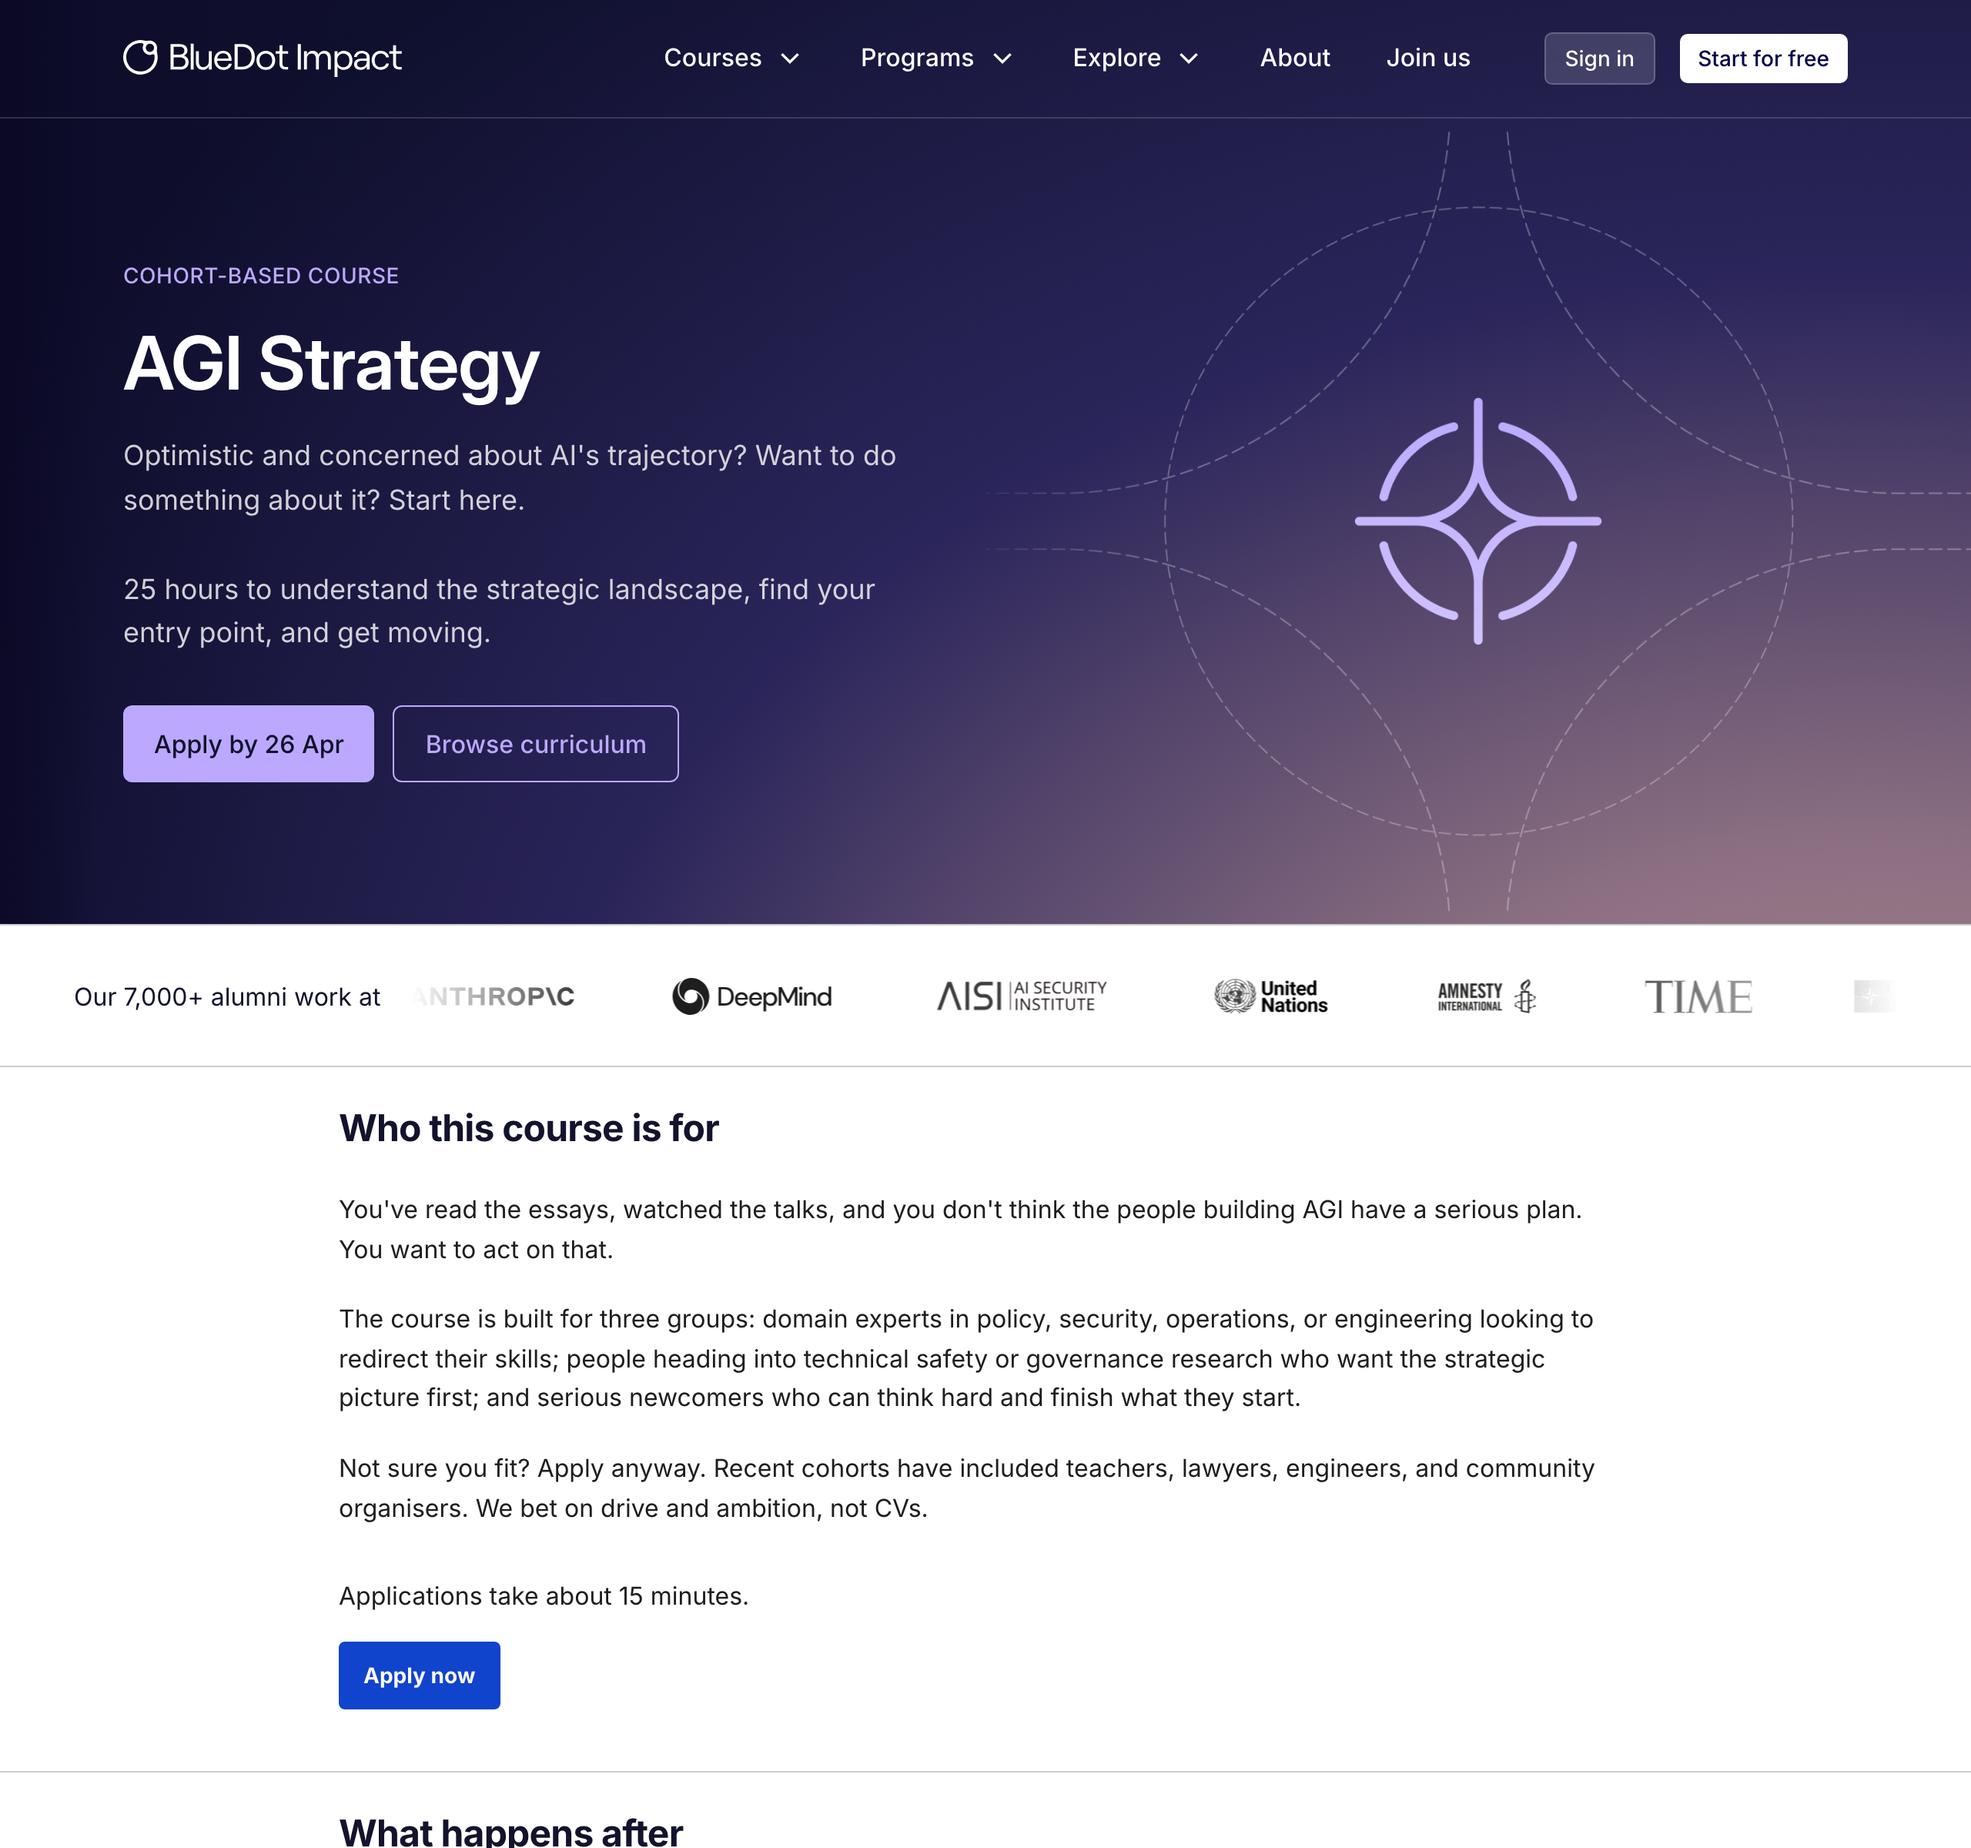
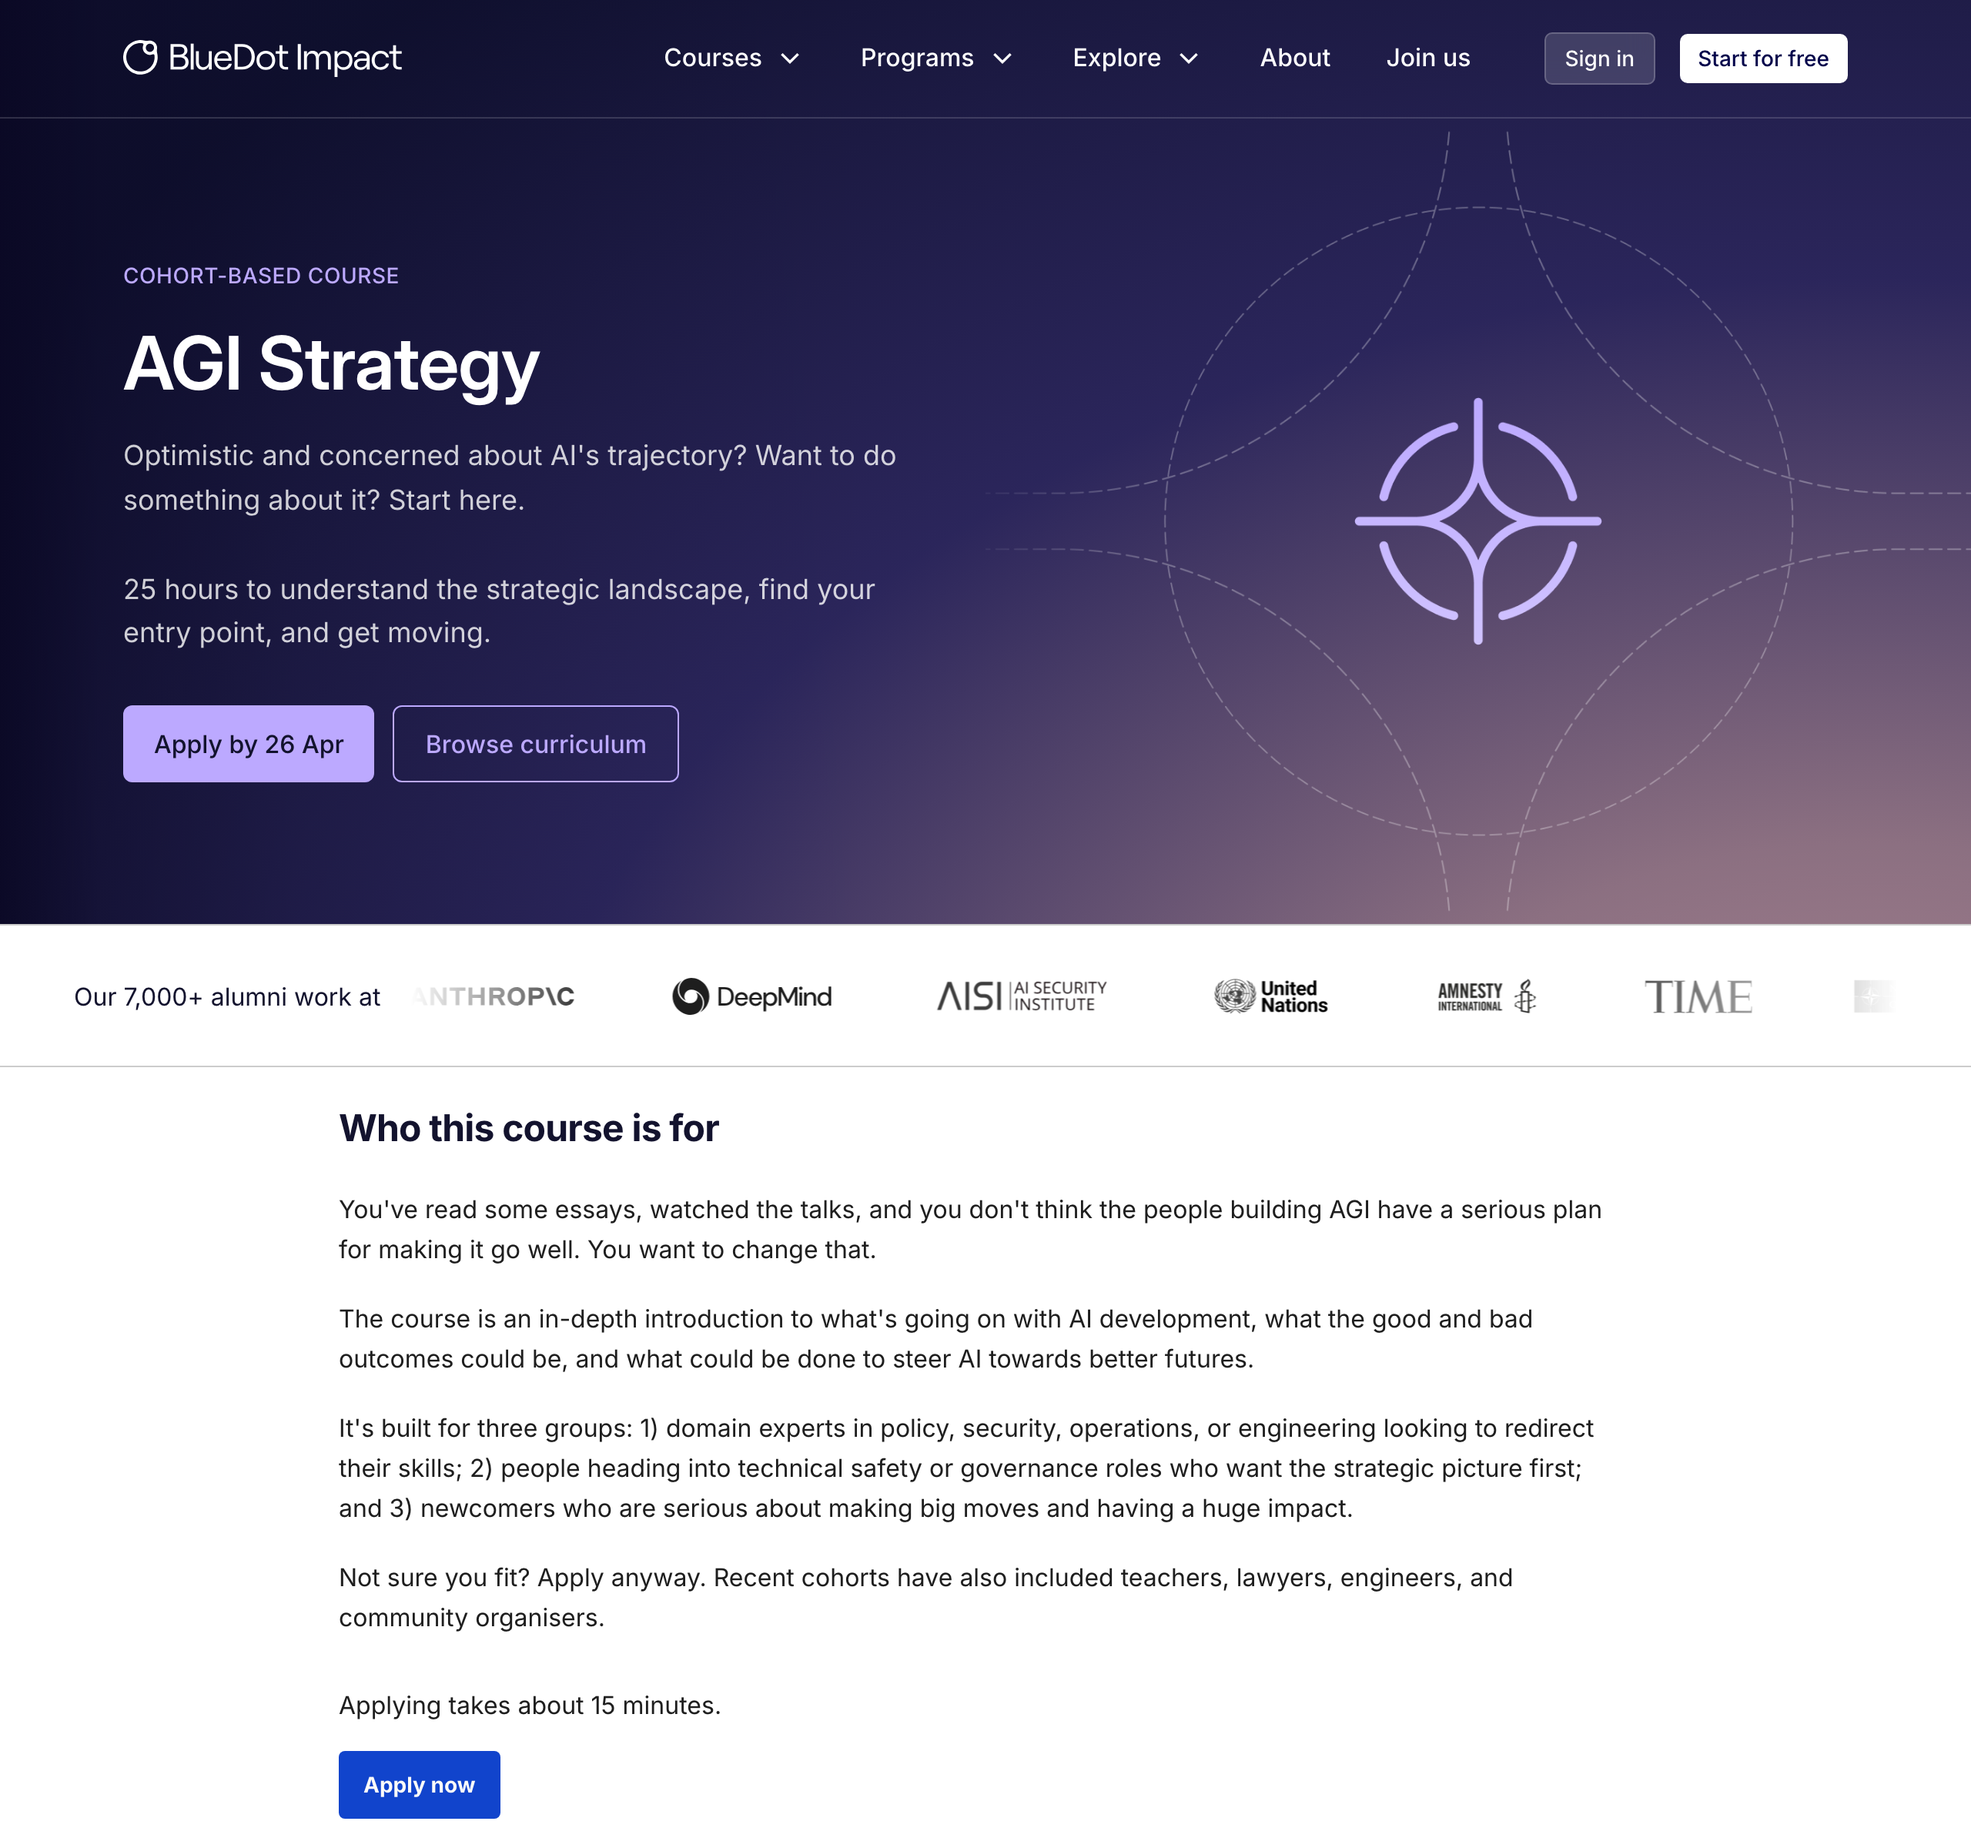
[copy] AGI Strategy: Dewi-revised copy + add Rapid/Career grants to pathways
- Who this course is for: tighter framing of the audience, three-group
  list explicitly numbered, drops "we bet on drive and ambition, not CVs"
  in favour of a simpler "apply anyway" line.
- How this course will benefit you: reframes the three benefits as
  career launchpad / clear way to think / community of builders.
- What happens after: drops "make a bigger leap", adds Rapid Grants and
  Career Transition Grants as concrete next steps, intro shortened.

Screenshots refreshed.

diff --git a/apps/website/src/components/lander/course-content/AgiStrategyContent.tsx b/apps/website/src/components/lander/course-content/AgiStrategyContent.tsx
@@ -49,12 +49,13 @@ export const createAgiStrategyContent = (
   whoIsThisForText: {
     title: 'Who this course is for',
     paragraphs: [
-      'You\'ve read the essays, watched the talks, and you don\'t think the people building AGI have a serious plan. You want to act on that.',
-      'The course is built for three groups: domain experts in policy, security, operations, or engineering looking to redirect their skills; people heading into technical safety or governance research who want the strategic picture first; and serious newcomers who can think hard and finish what they start.',
-      'Not sure you fit? Apply anyway. Recent cohorts have included teachers, lawyers, engineers, and community organisers. We bet on drive and ambition, not CVs.',
+      'You\'ve read some essays, watched the talks, and you don\'t think the people building AGI have a serious plan for making it go well. You want to change that.',
+      'The course is an in-depth introduction to what\'s going on with AI development, what the good and bad outcomes could be, and what could be done to steer AI towards better futures.',
+      'It\'s built for three groups: 1) domain experts in policy, security, operations, or engineering looking to redirect their skills; 2) people heading into technical safety or governance roles who want the strategic picture first; and 3) newcomers who are serious about making big moves and having a huge impact.',
+      'Not sure you fit? Apply anyway. Recent cohorts have also included teachers, lawyers, engineers, and community organisers.',
     ],
     bottomCta: {
-      text: 'Applications take about 15 minutes.',
+      text: 'Applying takes about 15 minutes.',
       buttonText: 'Apply now',
       buttonUrl: applicationUrlWithUtm,
     },
@@ -64,16 +65,16 @@ export const createAgiStrategyContent = (
     title: 'How this course will benefit you',
     items: [
       {
-        heading: 'A launchpad, not a lecture',
-        body: 'You won\'t "complete" this course. You\'ll leave it with a view on which problems matter, which path fits your background, and what you\'re going to do next week.',
+        heading: 'A launchpad for your AI safety career',
+        body: 'You\'ll leave this course with an opinion on which threats matter, early takes on how we could solve these problems, and concrete next steps you can take.',
       },
       {
-        heading: 'Three frameworks you\'ll actually use',
-        body: 'Incentive mapping for the race to AGI. Kill chains for analysing threats. Defense in depth for designing interventions. Enough to hold your own in any room of people working on this.',
+        heading: 'A clear way to think about the future of AI',
+        body: 'You\'ll analyse the incentives facing AI companies. You\'ll develop "kill chains" to analyse the threats. And you\'ll apply defense in depth to evaluate and prioritise interventions. You\'ll know enough to hold your own in rooms with experts.',
       },
       {
-        heading: 'A community of people who ship',
-        body: 'BlueDot has 7,000+ alumni at Anthropic, DeepMind, UK AISI, and dozens of organisations working on a safe transition to advanced AI. You\'ll meet people already doing the work, who can open doors and pressure-test your thinking.',
+        heading: 'A community of builders',
+        body: 'BlueDot has 7,000+ alumni, with many now working at Anthropic, DeepMind, UK AISI, and dozens of organisations working on a safe transition to advanced AI. You\'ll meet people in the field who can open doors for you and pressure-test your thinking.',
       },
     ],
   },
@@ -118,7 +119,7 @@ export const createAgiStrategyContent = (
 
   pathwaysList: {
     title: 'What happens after',
-    intro: 'AGI Strategy is where you get oriented. What comes next depends on you.',
+    intro: 'This course is where you get oriented. What comes next depends on you.',
     items: [
       {
         title: 'Technical AI Safety',
@@ -139,8 +140,16 @@ export const createAgiStrategyContent = (
         ctaLabel: 'Explore the course',
       },
       {
-        title: 'Make a bigger leap',
-        summary: 'Pivot full-time into impactful work, or start building something new. We can help.',
+        title: 'Rapid Grants',
+        summary: 'Small, fast funding for concrete AI safety work. Five-minute application, decisions in days, money upfront by default.',
+        href: '/programs/rapid-grants',
+        ctaLabel: 'Explore program',
+      },
+      {
+        title: 'Career Transition Grants',
+        summary: 'Funding to enable you to work full-time on impactful AI safety work. Propose your plan and we\'ll back you.',
+        href: '/programs/career-transition-grant',
+        ctaLabel: 'Explore program',
       },
     ],
   },
